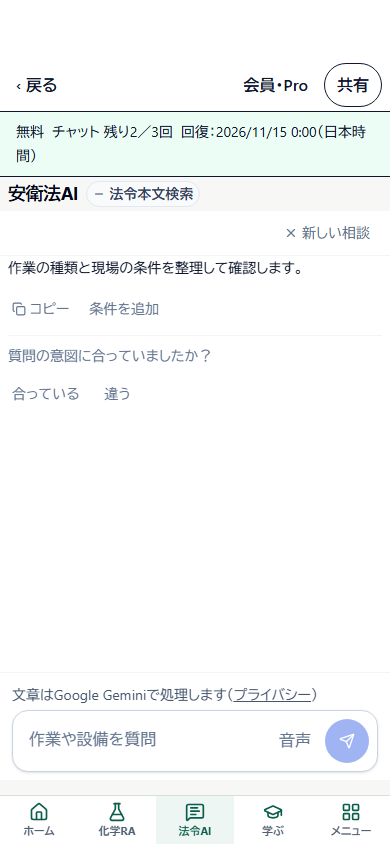
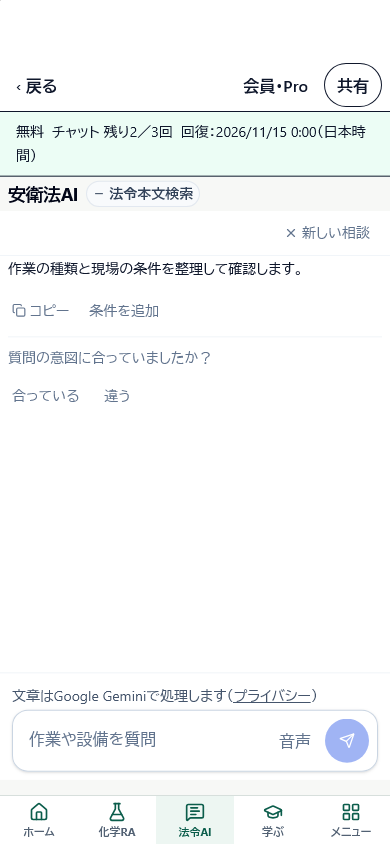
ゲストAIの画面証跡と撮影先を固定

diff --git a/mobile/e2e/guest-ai.spec.ts b/mobile/e2e/guest-ai.spec.ts
@@ -1,10 +1,12 @@
 import { mkdir } from 'node:fs/promises';
 import path from 'node:path';
+import { fileURLToPath } from 'node:url';
 import { test,expect } from './fixtures';
 import { capability } from '../tests/fixtures';
 import product from '../../web/src/lib/mobile/product-policy.json' with {type:'json'};
 
 const host='https://www.anzen-ai-portal.jp';
+const captureDir=fileURLToPath(new URL('../../research/anz-guest/',import.meta.url));
 const cors={'Access-Control-Allow-Origin':'http://127.0.0.1:3213','Access-Control-Allow-Credentials':'true','Access-Control-Allow-Headers':'content-type,x-anzen-native,x-operation-id,origin,accept'};
 
 test('native guest receives answers, a 429 offers one purchase button, and only that button starts login',async({page,context},info)=>{
@@ -79,8 +81,12 @@ test('native guest receives answers, a 429 offers one purchase button, and only 
     await expect(page.getByLabel('AIの利用枠')).toContainText(`残り${limit-i-1}／${limit}`);
     if(i===0){
       await expect(page.getByText('作業の種類と現場の条件を整理して確認します。',{exact:true})).toBeVisible();
-      const dir=path.resolve('../research/anz-guest');await mkdir(dir,{recursive:true});
-      if(info.project.name==='chromium-phone')await page.screenshot({path:path.join(dir,'iphone-guest-answer.png'),scale:'css'});
+      await page.getByRole('heading',{name:'安衛法AI',exact:true}).click();
+      await expect(page.locator('[data-ai-processing-note]')).toBeVisible();
+      await expect(page.getByRole('navigation',{name:'モバイル ボトムナビゲーション'})).toBeVisible();
+      await page.evaluate(async()=>{await document.fonts.ready;await new Promise<void>(resolve=>requestAnimationFrame(()=>requestAnimationFrame(()=>resolve())));});
+      await mkdir(captureDir,{recursive:true});
+      if(info.project.name==='webkit-phone')await page.screenshot({path:path.join(captureDir,'iphone-guest-answer.png'),scale:'css',animations:'disabled'});
     }
   }
   expect(logins).toBe(0);await expect(page).toHaveURL(/\/chatbot\//);
@@ -88,7 +94,11 @@ test('native guest receives answers, a 429 offers one purchase button, and only 
   const offer=page.locator('[data-pro-upsell]');await expect(offer).toContainText('今日の無料回数はここまで');
   await expect(offer.locator('[data-pro-start]')).toHaveCount(1);await expect(offer.locator('[data-pro-start]')).toContainText('月額');
   expect(statuses).toEqual([...Array(limit).fill(200),429]);expect(logins).toBe(0);
-  if(info.project.name==='chromium-phone')await page.screenshot({path:path.resolve('../research/anz-guest/iphone-guest-limit.png'),scale:'css'});
+  await page.getByRole('heading',{name:'安衛法AI',exact:true}).click();
+  await expect(page.locator('[data-ai-processing-note]')).toBeVisible();
+  await expect(page.getByRole('navigation',{name:'モバイル ボトムナビゲーション'})).toBeVisible();
+  await page.evaluate(async()=>{await document.fonts.ready;await new Promise<void>(resolve=>requestAnimationFrame(()=>requestAnimationFrame(()=>resolve())));});
+  if(info.project.name==='webkit-phone')await page.screenshot({path:path.join(captureDir,'iphone-guest-limit.png'),scale:'css',animations:'disabled'});
   await offer.locator('[data-pro-start]').click();await expect.poll(()=>logins).toBe(1);
   await expect(page).toHaveURL(/\/chatbot\//);
 });

diff --git a/research/anz-guest/README.md b/research/anz-guest/README.md
@@ -6,3 +6,5 @@
 - テスト：`mobile/e2e/guest-ai.spec.ts`。空のKeychain、iOSプラグイン境界、サーバー応答をテスト用に再現し、アプリに同梱した本番ビルドのUI・ネイティブ送信アダプター・購入ログイン処理を実行。
 - Chromium / WebKit / desktopで成功。購入前はログイン要求0件、無料枠を使い切った後は429、購入ボタンを押した後に初めてログイン要求1件。
 - 実際のGemini呼び出し・App Store購入・実機操作・デプロイは行っていない。サーバーの共有無料枠、会員枠、費用予約と精算はVitestで別途検証。
+- ag-1-rv 再検証：最終本番ビルドで関連E2E18件成功。撮影時は見出しを押して入力フォーカスを外し、Gemini処理の1行表示と下部ナビを確認してから、フォント・描画の完了を待つ。撮影条件追加後のゲストE2Eも3ブラウザ構成で成功。
+- 保存画像はiPhone幅のWebKit。出力先はテストファイルの場所を基準に固定し、起動ディレクトリに依存しない。
